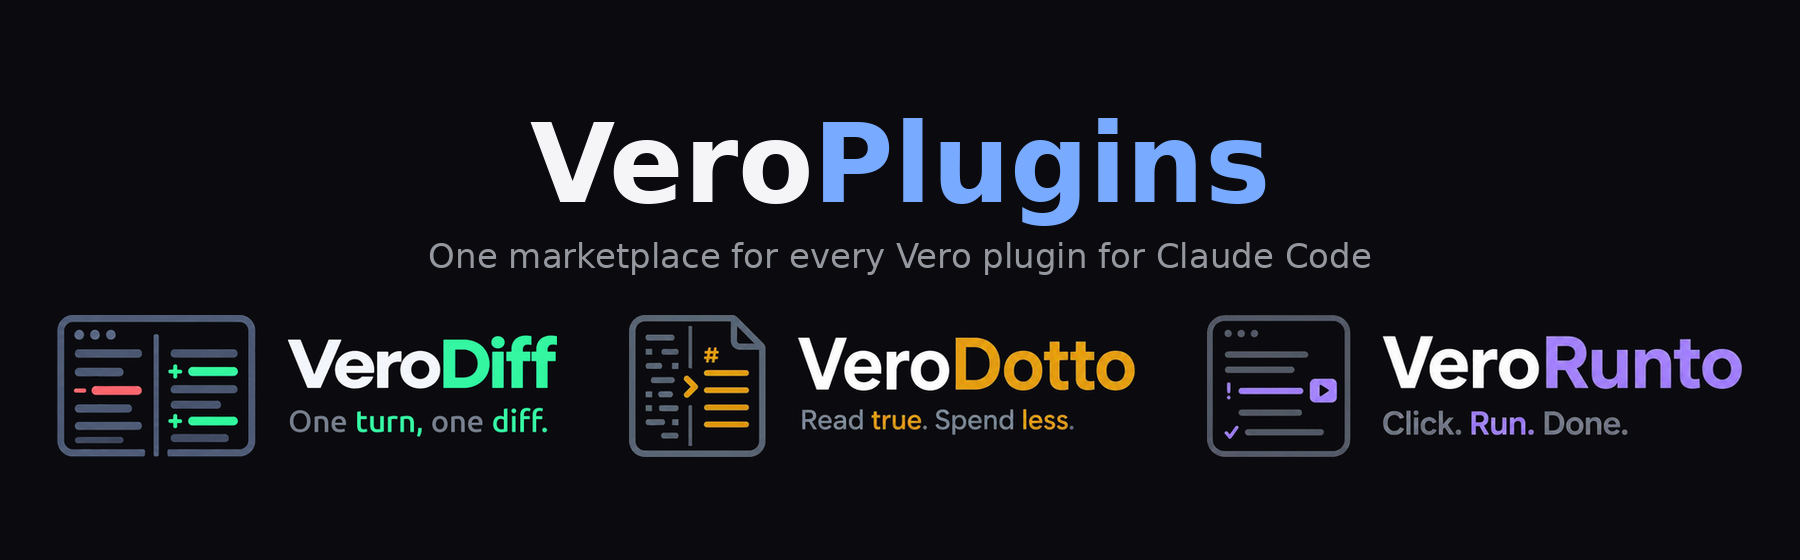
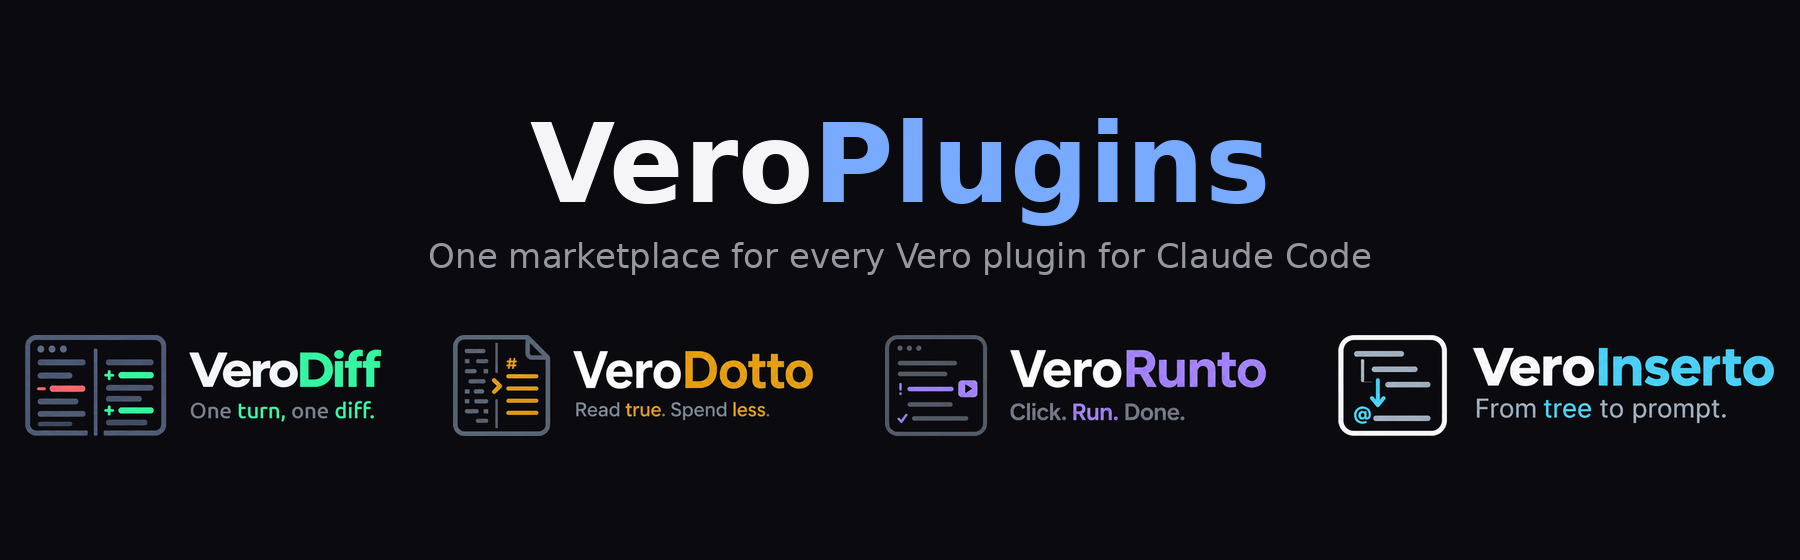
Catalog lists VeroInserto

Changed region(s): [[0.0, 0.5464, 0.9956, 0.8196]]

diff --git a/README.md b/README.md
@@ -1,6 +1,6 @@
 <p align="center">
   <img src="https://raw.githubusercontent.com/GomelHawk/VeroPlugins/main/assets/banner.png"
-       alt="VeroPlugins: VeroDiff, VeroDotto and VeroRunto - one marketplace for every Vero plugin for Claude Code"
+       alt="VeroPlugins: VeroDiff, VeroDotto, VeroRunto and VeroInserto - one marketplace for every Vero plugin for Claude Code"
        width="900">
 </p>
 
@@ -36,6 +36,7 @@ does the same.
 | <a href="https://github.com/GomelHawk/VeroDiff"><img src="https://raw.githubusercontent.com/GomelHawk/VeroPlugins/main/assets/vero-diff.png" width="260" alt="VeroDiff - One turn, one diff."></a> | See exactly what Claude changed on each turn, as a real diff in a side pane, and undo it. | `/plugin install vero-diff@vero-plugins` |
 | <a href="https://github.com/GomelHawk/VeroDotto"><img src="https://raw.githubusercontent.com/GomelHawk/VeroPlugins/main/assets/vero-dotto.png" width="260" alt="VeroDotto - Read true. Spend less."></a> | Claude reads docx, pdf, spreadsheets and OpenDocument files as clean markdown, with fewer tokens. | `/plugin install vero-dotto@vero-plugins` |
 | <a href="https://github.com/GomelHawk/VeroRunto"><img src="https://raw.githubusercontent.com/GomelHawk/VeroPlugins/main/assets/vero-runto.png" width="260" alt="VeroRunto - Click. Run. Done."></a> | **Copy** and **Run** buttons after every `!` command Claude suggests; Run goes through Claude Code's own Bash tool, under your permission rules. | `/plugin install vero-runto@vero-plugins` |
+| <a href="https://github.com/GomelHawk/VeroInserto"><img src="https://raw.githubusercontent.com/GomelHawk/VeroPlugins/main/assets/vero-inserto.png" width="260" alt="VeroInserto - From tree to prompt."></a> | Type `@@` in the prompt, pick a file or folder from your project tree, and its `@path` lands at the cursor. | `/plugin install vero-inserto@vero-plugins` |
 
 Type the install command on its own line, press Enter, then restart Claude Code. In the
 desktop app, pick the plugin under **Plugins** → **Add plugin** instead. Each plugin's own
@@ -46,8 +47,9 @@ page explains what it does in detail, with its options and answers to common que
 - Claude edited files and you want to review or undo a turn → **VeroDiff**
 - You give Claude Word, Excel, PowerPoint or PDF files → **VeroDotto**
 - Claude keeps asking you to run commands like `! gh auth login` → **VeroRunto**
+- You type file paths after `@` from memory and would rather pick them from a tree → **VeroInserto**
 
-They are independent: install one, two or all three.
+They are independent: install one, two or all four.
 
 ## Installed one of these some other way?
 

diff --git a/CLAUDE.md b/CLAUDE.md
@@ -36,8 +36,8 @@ stops working and shows the person the commands to move - how, is `shared/`'s jo
 `PLAN-unify-sources.md` (the owner's working file, untracked).
 
 Plugins listed: VeroDiff (`vero-diff`), VeroDotto (`vero-dotto`), VeroRunto
-(`vero-runto`). Every plugin here carries the Vero name: `vero-<name>`, display
-`Vero<Name>`. English only, MIT.
+(`vero-runto`), VeroInserto (`vero-inserto`). Every plugin here carries the Vero name:
+`vero-<name>`, display `Vero<Name>`. English only, MIT.
 
 ## Repository layout
 
